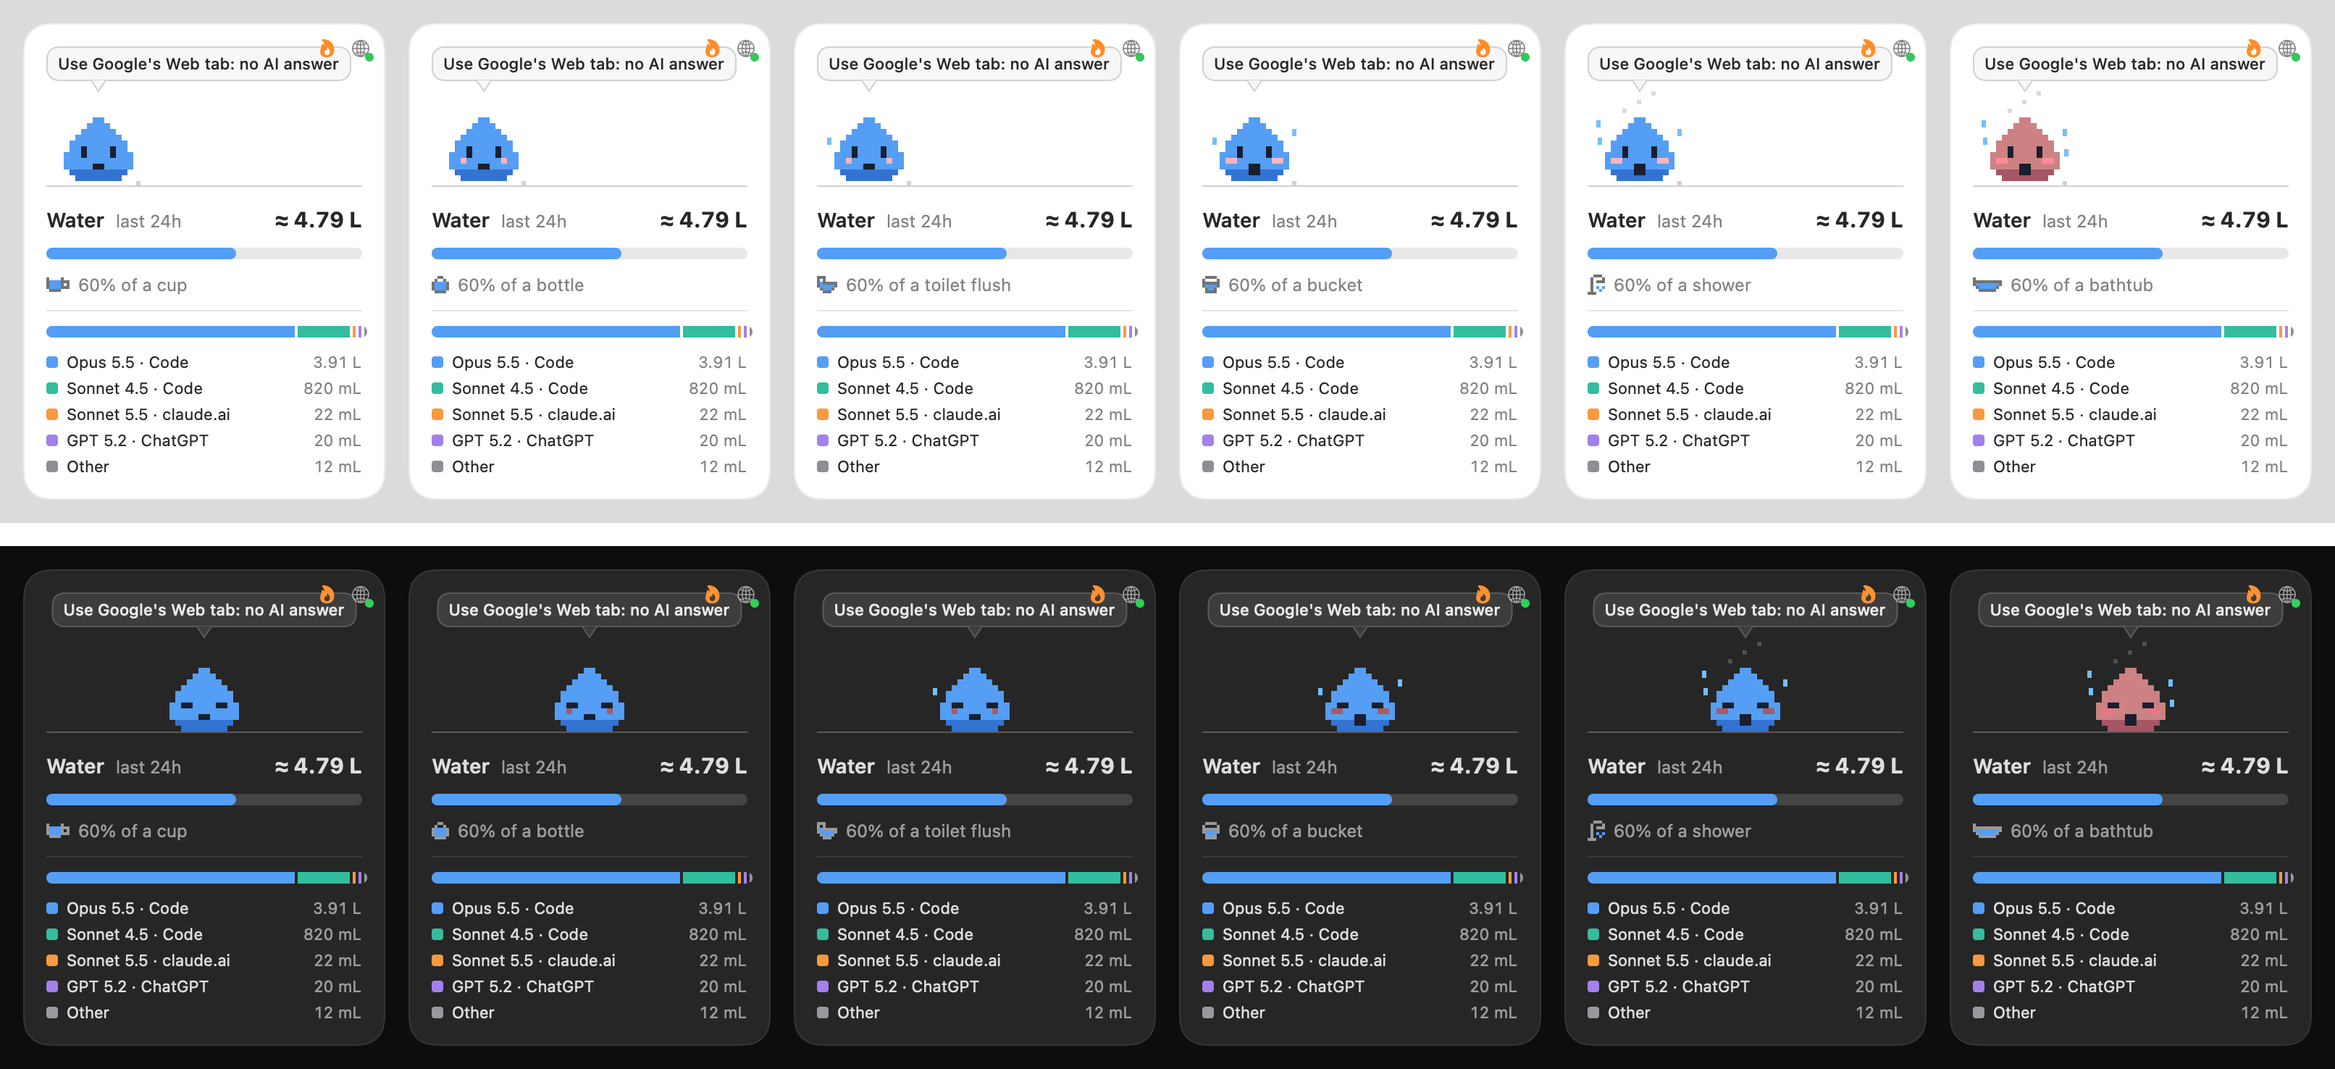
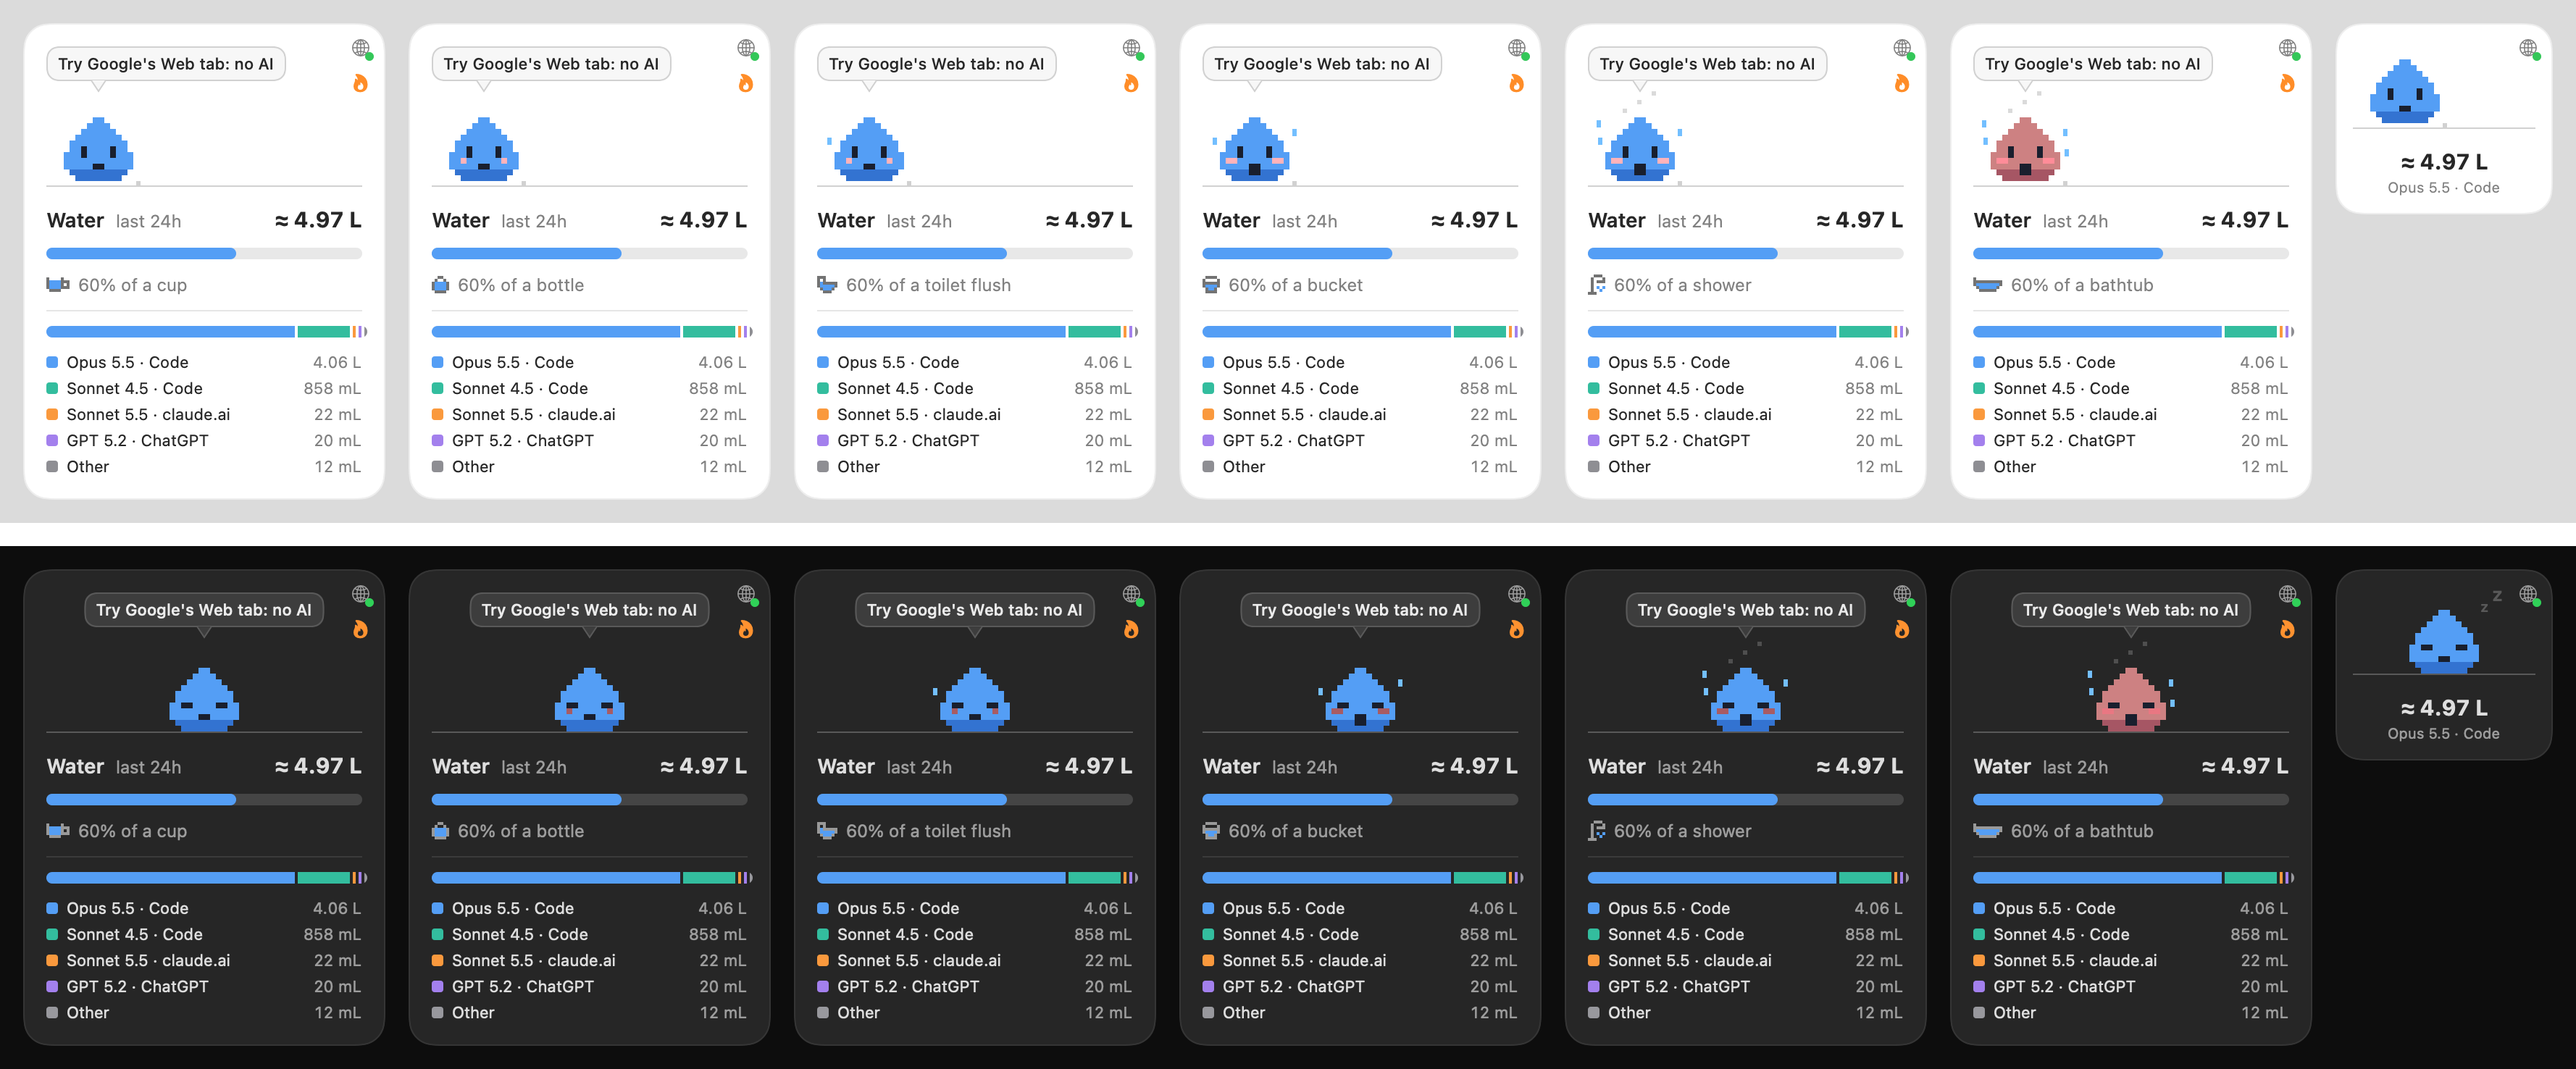
Minimal card shows the top model; flame moves under the globe
The minimal card drops the roast and adds the model and source that used
the most water. On the full card the flame sits under the globe, and
Tracky's speech bubble keeps clear of both icons. The Google tip is
shortened to fit the bubble on one line.

diff --git a/Sources/main.swift b/Sources/main.swift
@@ -17,7 +17,6 @@ final class Store: ObservableObject {
     @Published var chromeConnected = ChromeLink.connected
     @Published var showSetup = false
     @Published var roasting = false
-    @Published var angryUntil = Date.distantPast
     func refreshLink() { browserOn = ChromeLink.on; chromeConnected = ChromeLink.connected }
     @Published var compact = UserDefaults.standard.bool(forKey: "compact") {
         didSet { UserDefaults.standard.set(compact, forKey: "compact") }
@@ -124,7 +123,7 @@ func tips(_ s: Store) -> [String] {
     var out: [String] = []
     if let last = s.usages.max(by: { $0.date < $1.date }) {
         if last.source == "Search" {
-            out += ["Use Google's Web tab: no AI answer", "AI Mode follow-ups cost water"]
+            out += ["Try Google's Web tab: no AI", "AI Mode follow-ups cost water"]
         }
         if let alt = lighter(than: last.model) {
             let ratio = EcoLogits.water(last.model, outputTokens: 1000).mid / EcoLogits.water(alt, outputTokens: 1000).mid
@@ -218,6 +217,7 @@ struct Scene: View {
     let asleep: Bool, heat: Int, tick: Int, tip: String?
     var angry = false   // roasting: red, shaking and steaming whatever the heat
     var height: CGFloat = 100
+    var rightMargin: CGFloat = 0   // room left free for the card's corner icons
     @Environment(\.colorScheme) var scheme
 
     var body: some View {
@@ -258,9 +258,9 @@ struct Scene: View {
 
         if let tip {
             let text = ctx.resolve(Text(tip).font(.system(size: 11, weight: .medium)).foregroundColor(p.ink))
-            let ts = text.measure(in: CGSize(width: size.width - 16, height: 40))
+            let ts = text.measure(in: CGSize(width: size.width - rightMargin - 16, height: 40))
             let bw = ts.width + 16, bh = ts.height + 10
-            let box = CGRect(x: min(max(x + w / 2 - bw / 2, 0), size.width - bw), y: 0, width: bw, height: bh)
+            let box = CGRect(x: min(max(x + w / 2 - bw / 2, 0), size.width - rightMargin - bw), y: 0, width: bw, height: bh)
             let tx = min(max(x + w / 2, box.minX + 12), box.maxX - 12)
             var tail = Path()
             tail.move(to: CGPoint(x: tx - 5, y: box.maxY - 0.5))
@@ -294,16 +294,21 @@ struct Companion: View {
         let p = Palette(scheme: scheme), total = store.total.mid
         let c = forced.map { (containers[$0.heat].name, containers[$0.heat].sprite, 0.6, $0.heat) } ?? container(for: total)
         let tipList = tips(store), secs = tick / 4, compact = forcedCompact ?? store.compact
-        let roasting = store.roasting && !compact, angry = roasting || store.angryUntil > Date()
+        let roasting = store.roasting && !compact, angry = roasting
         let tip = roasting ? roastShouts[(secs / 3) % roastShouts.count]
             : secs % 24 < 8 ? tipList[(secs / 24) % tipList.count] : nil   // speaks for 8 s every 24 s
         VStack(alignment: .leading, spacing: 10) {
             Scene(asleep: (forced?.asleep ?? !store.active) && !angry, heat: c.3, tick: tick, tip: compact ? nil : tip,
-                  angry: angry, height: compact ? 64 : 100)
+                  angry: angry, height: compact ? 64 : 100, rightMargin: compact ? 0 : 22)
             if roasting { RoastView(store: store) } else if store.showSetup && !compact { BrowserSetup(store: store) }
-            if compact {   // minimal: just Tracky and the total
-                Text("≈ " + fmt(total)).font(.system(size: 15, weight: .bold)).monospacedDigit()
-                    .frame(maxWidth: .infinity)
+            if compact {   // minimal: Tracky, the total and where most of it came from
+                VStack(spacing: 2) {
+                    Text("≈ " + fmt(total)).font(.system(size: 15, weight: .bold)).monospacedDigit()
+                    if let top = slices(store).first {
+                        Text(top.label).font(.system(size: 10)).foregroundStyle(.secondary).lineLimit(1)
+                    }
+                }
+                .frame(maxWidth: .infinity)
             } else if !roasting {
                 HStack(alignment: .firstTextBaseline) {
                     Text("Water").font(.system(size: 14, weight: .semibold))
@@ -366,16 +371,7 @@ struct Companion: View {
             }
             .onEnded { _ in dragStart = nil })
         .overlay(alignment: .topTrailing) {
-            HStack(spacing: 0) {
-                // Roast: the full card swaps to funny equivalents; the minimal one just gets angry for a moment.
-                Button {
-                    if compact { store.angryUntil = Date().addingTimeInterval(3) } else { store.showSetup = false; store.roasting.toggle() }
-                } label: {
-                    Image(systemName: "flame.fill").font(.system(size: 12)).foregroundStyle(.orange).padding(.vertical, 10).padding(.leading, 10)
-                        .contentShape(Rectangle())
-                }
-                .buttonStyle(.plain)
-                .help("Roast me")
+            VStack(spacing: 0) {
                 // Browser tracking status: red off, green on. Only the full card opens the setup.
                 let globe = Image(systemName: "globe").font(.system(size: 12)).foregroundStyle(.secondary)
                     .overlay(alignment: .bottomTrailing) {
@@ -388,6 +384,13 @@ struct Companion: View {
                     Button { store.roasting = false; store.showSetup.toggle() } label: { globe }
                         .buttonStyle(.plain)
                         .help(store.browserOn ? "Browser tracking is on" : "Browser tracking is off · click to set up")
+                    // Roast: the card swaps to funny equivalents of the water.
+                    Button { store.showSetup = false; store.roasting.toggle() } label: {
+                        Image(systemName: "flame.fill").font(.system(size: 12)).foregroundStyle(.orange).padding(.horizontal, 10).padding(.bottom, 10)
+                            .contentShape(Rectangle())
+                    }
+                    .buttonStyle(.plain)
+                    .help("Roast me")
                 }
             }
         }
@@ -640,13 +643,12 @@ if let i = args.firstIndex(of: "--preview"), i + 1 < args.count {   // render ev
         + Array(repeating: #"{"site":"google-ai-overview"}"#, count: 40)
     store.showSetup = args.contains("--setup")
     store.roasting = args.contains("--roast")
-    if store.roasting { store.angryUntil = .distantFuture }   // so the minimal cards show the angry gimmick too
     store.usages = store.load() + samples.compactMap { BrowserEvent(json: Data($0.utf8))?.usage(at: Date(), catalog: catalog) }
     let sheet = VStack(spacing: 16) {
         ForEach([ColorScheme.light, .dark], id: \.self) { scheme in
             HStack(alignment: .top, spacing: 16) {   // light: awake at each heat level; dark: asleep
-                ForEach(0..<containers.count, id: \.self) { Companion(store: store, forced: (scheme == .dark, $0)) }
-                if store.roasting { Companion(store: store, forced: (false, 0), forcedCompact: true) }
+                ForEach(0..<containers.count, id: \.self) { Companion(store: store, forced: (scheme == .dark, $0), forcedCompact: false) }
+                Companion(store: store, forced: (scheme == .dark, 0), forcedCompact: true)
             }
             .padding(16).background(scheme == .dark ? Color(white: 0.05) : Color(white: 0.86)).environment(\.colorScheme, scheme)
         }

diff --git a/README.md b/README.md
@@ -4,7 +4,7 @@ A small pixel water drop that lives on your Mac and shows how much water your AI
 
 ![Tracky at each heat level, awake in light mode and asleep in dark mode, with sample usage in the legend](docs/preview.png)
 
-- **On the desktop:** a card you can drag anywhere. Tracky sleeps when no AI is working and paces and hops while one is. Double-click the card (or use the menu) to switch between the complete card and a minimal one with just Tracky and the total.
+- **On the desktop:** a card you can drag anywhere. Tracky sleeps when no AI is working and paces and hops while one is. Double-click the card (or use the menu) to switch between the complete card and a minimal one with just Tracky, the total and the model that used the most.
 - **It heats up as you use more water.** A bar fills toward the next container, and each container you pass makes Tracky hotter:
 
   | Container | Liters | Tracky |
@@ -17,8 +17,8 @@ A small pixel water drop that lives on your Mac and shows how much water your AI
   | bathtub | 150 | overheated, red |
 
 - **Where the water comes from:** a second bar splits the total by model and source, such as *Opus 5.5 · Code*, *GPT 5.2 · ChatGPT* or *Google AI Overview*, with a legend of at most five lines. With more than five, the four largest stay and the rest are summed as *Other*. The menu shows the same lines.
-- **Tips in a speech bubble,** about what you used last: the next lighter model in the same family (*Try Sonnet 5.5: ~3× less water* after Opus), your coding agent's effort (*45% thinking: try lower effort*), or, after a Google search with an AI answer, *Use Google's Web tab: no AI answer*.
-- **🔥 Roast me:** click the flame and Tracky gets angry, listing what the same water could have been: espressos, cups of tea, seconds of shower, toilet flushes, tomatoes grown (a global average of [214 L per kg](https://www.enel.com/learning-hub/environment/water-footprint), Hoekstra & Chapagain 2007). Close it with ✕. On the minimal card, the flame just makes Tracky angry for a moment.
+- **Tips in a speech bubble,** about what you used last: the next lighter model in the same family (*Try Sonnet 5.5: ~3× less water* after Opus), your coding agent's effort (*45% thinking: try lower effort*), or, after a Google search with an AI answer, *Try Google's Web tab: no AI*.
+- **🔥 Roast me:** click the flame under the globe and Tracky gets angry, listing what the same water could have been: espressos, cups of tea, seconds of shower, toilet flushes, tomatoes grown (a global average of [214 L per kg](https://www.enel.com/learning-hub/environment/water-footprint), Hoekstra & Chapagain 2007). Close it with ✕. It's on the complete card only.
 - **Browser tracking, at a glance:** a globe in the card's corner with a red dot when it's off and a green one when it's on. Click it to set it up in two steps (on the minimal card the globe only shows the status).
 - **Menu bar:** the drop and the total. Click it for the same breakdown, a tip, the period (last 1, 5 or 24 hours), switches for the minimal card, to hide the card and to open Tracky at login (on by default), and *How is this estimated?*, which opens the EcoLogits method Tracky implements.
 
